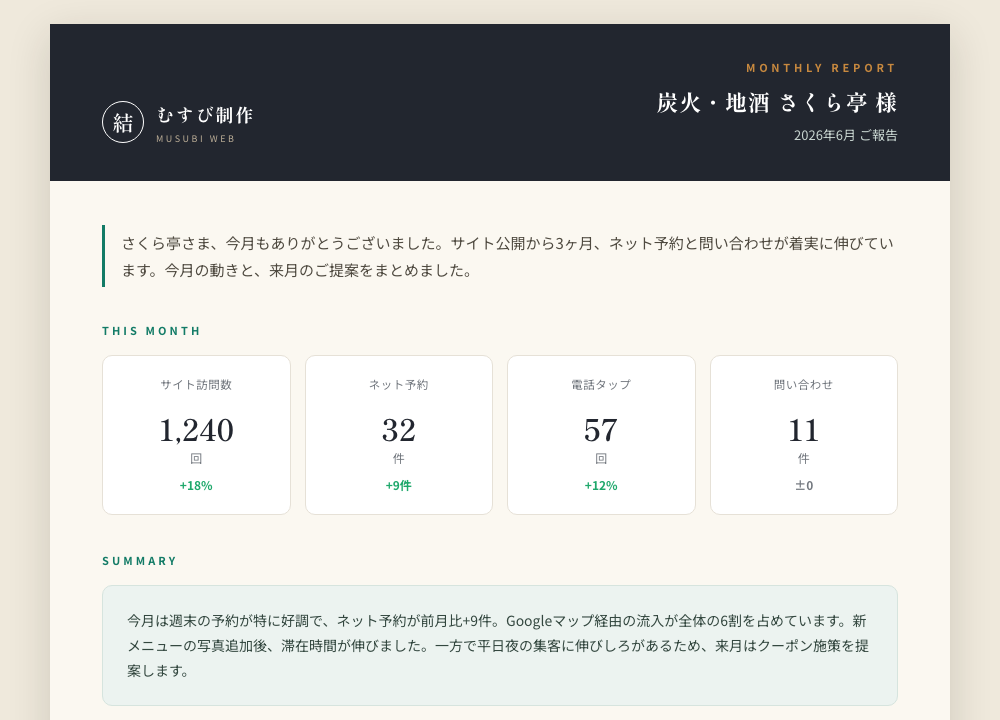
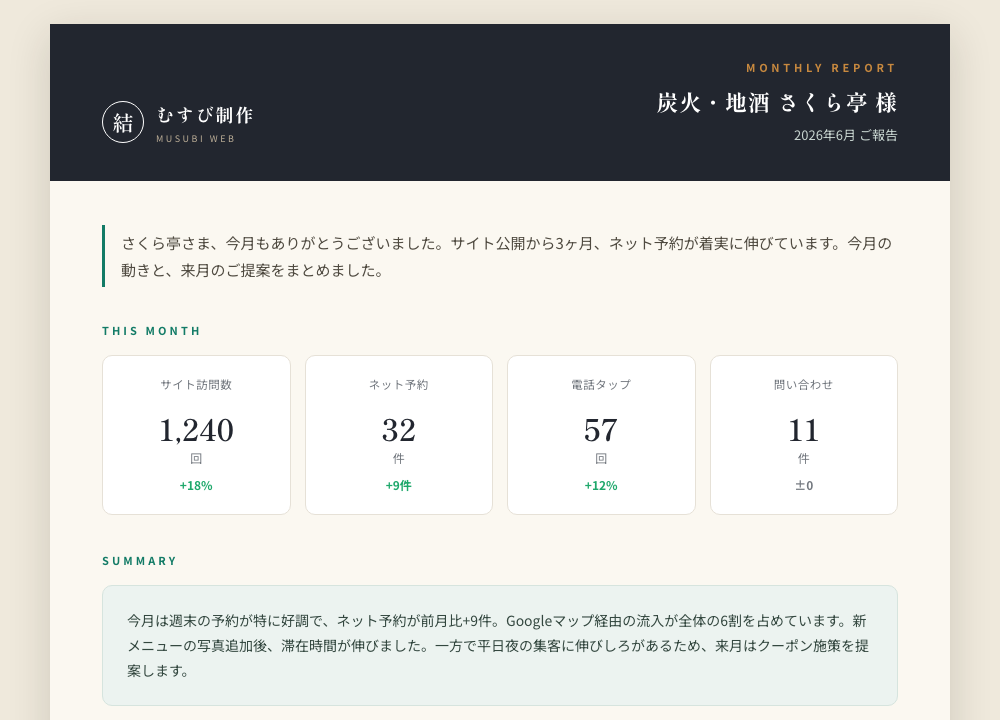
update: 請求の未収整合・ポータル文言・レポート修正

Changed region(s): [[0.682, 0.3056, 0.899, 0.3667], [0.124, 0.3667, 0.465, 0.3972]]

diff --git a/admin/billing.html b/admin/billing.html
@@ -86,7 +86,7 @@ tr:last-child td{border-bottom:0}
 <div class="grid4">
  <div class="kpi"><div class="l">MRR</div><div class="v">¥630,000</div><div class="d up">＋8.2%</div></div>
  <div class="kpi"><div class="l">今月の入金</div><div class="v">¥598,000</div><div class="d up">95%</div></div>
- <div class="kpi"><div class="l">未収</div><div class="v">¥32,000</div><div class="d down">2件</div></div>
+ <div class="kpi"><div class="l">未収</div><div class="v">¥35,000</div><div class="d down">2件</div></div>
  <div class="kpi"><div class="l">今月の解約</div><div class="v">1<span class="sm muted"> 件</span></div><div class="d flat">−¥15,000</div></div>
 </div>
 <div class="card"><h3>サブスクリプション <span class="tag">Stripe</span></h3>

diff --git a/portal/home.html b/portal/home.html
@@ -72,7 +72,7 @@ body{font-family:"Hiragino Kaku Gothic ProN","Noto Sans JP",sans-serif;backgroun
 </div>
 <div class="wrap">
 <div class="hello">さくら亭さま、<span>今月の成果</span>です。</div>
-<div class="sub">2026年6月 ・ 先月より予約・問い合わせが伸びています。詳細は「月次レポート」から。</div>
+<div class="sub">2026年6月 ・ 先月より予約が伸びています。詳細は「月次レポート」から。</div>
 <div class="grid4">
  <div class="kpi"><div class="l">サイト訪問数</div><div class="v">1,240<small> 回</small></div><div class="d up">＋18%</div></div>
  <div class="kpi"><div class="l">ネット予約</div><div class="v">32<small> 件</small></div><div class="d up">＋9件</div></div>